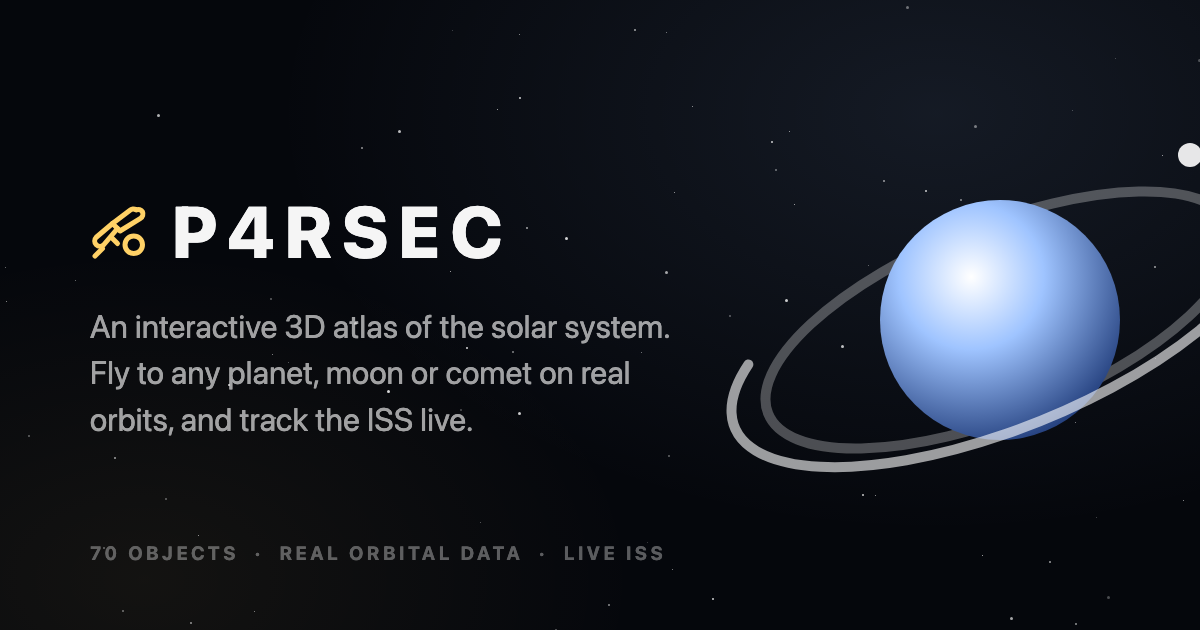
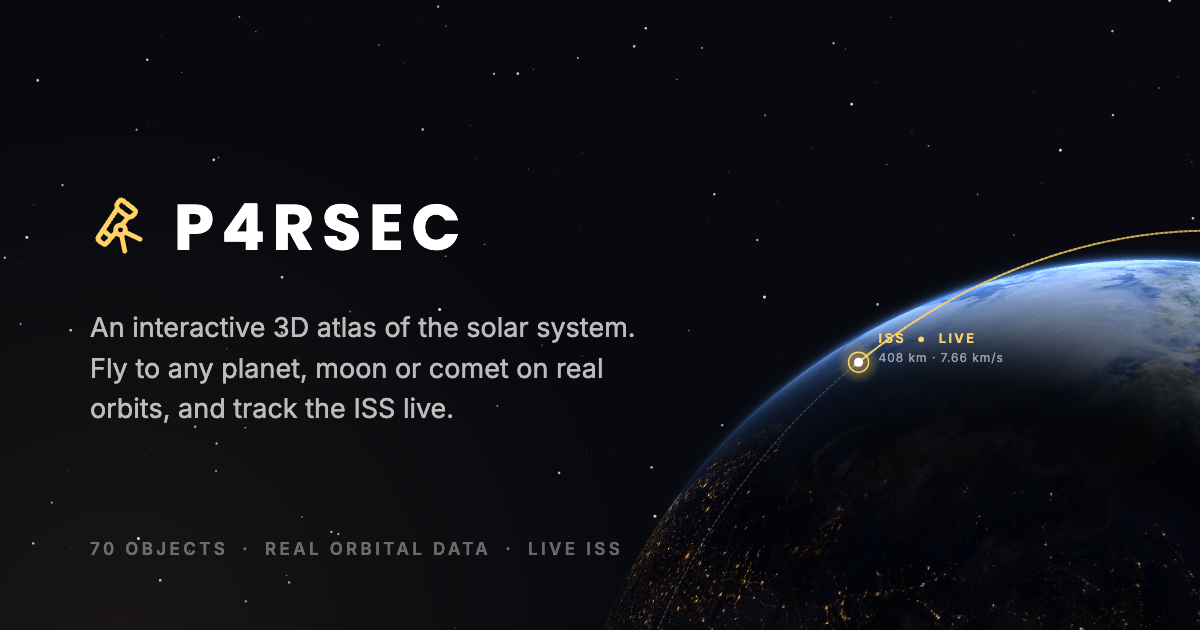
5.14.9 (a new share card)
The link-preview image had a flat gradient planet with a loose orbit ring
that didn't look like the site. Replaced the right half with a rendered
Earth limb (day/night/cloud textures from the scene) and the ISS on an
amber orbit track, which also shows the live-tracking feature.

og:image / twitter:image get a ?v= query so unfurlers that cached the old
card fetch the new one.

diff --git a/frontend/index.html b/frontend/index.html
@@ -37,14 +37,14 @@
     <meta property="og:description" content="Fly to every planet, moon and comet in an interactive 3D solar system. Track the ISS live and browse 70 objects with real orbital data." />
     <!-- Absolute URL: link unfurlers do not resolve relative paths. Kept in sync
          with public/og-image.png (1200×630). -->
-    <meta property="og:image" content="https://p4rsec.com/og-image.png" />
+    <meta property="og:image" content="https://p4rsec.com/og-image.png?v=5.14.9" />
     <meta property="og:image:width" content="1200" />
     <meta property="og:image:height" content="630" />
     <meta property="og:image:alt" content="P4RSEC — an interactive 3D atlas of the solar system" />
     <meta name="twitter:card" content="summary_large_image" />
     <meta name="twitter:title" content="P4RSEC — Explore the Solar System in 3D" />
     <meta name="twitter:description" content="An interactive 3D atlas of the solar system, with live ISS tracking." />
-    <meta name="twitter:image" content="https://p4rsec.com/og-image.png" />
+    <meta name="twitter:image" content="https://p4rsec.com/og-image.png?v=5.14.9" />
     <link rel="canonical" href="https://p4rsec.com/" />
 
     <!-- The first paint, before a byte of the bundle has run.

diff --git a/frontend/src/data/whatsNew.js b/frontend/src/data/whatsNew.js
@@ -14,6 +14,7 @@ export const WHATS_NEW = [
     {
         version: '5.14',
         changes: [
+            'When you share a link to the site, the preview now shows the Earth at night with the ISS passing over it.',
             'On a computer, the Sun no longer flickers in the corner of the view when you look at Earth or another planet.',
             'On a wide screen, the header and the controls over the scene now sit at the edges of the window instead of floating in a box in the middle.',
             'The first-visit tips have a quieter look that matches the rest of the site, without the gold outline.',

diff --git a/CHANGELOG.md b/CHANGELOG.md
@@ -16,6 +16,25 @@ Every release is a commit titled with its version. The version in
 
 ---
 
+## 5.14.9
+
+**A new share card.** The image that shows up when someone posts a p4rsec.com
+link (Slack, iMessage, X, Discord and so on) used to have a flat, gradient-shaded
+blue planet with a loose orbit ring on the right. It is now a real rendered
+Earth rising out of the bottom-right corner: a thin sunlit edge along the top
+limb, a blue atmosphere glow, city lights across the night side, and the ISS
+on an amber orbit track with a fading trail and an `ISS ● LIVE` label. It is
+drawn from the same day, night and cloud textures the scene uses, so the card
+looks like the site. The left half (wordmark, line of copy, footer) is
+unchanged.
+
+Link unfurlers cache images by URL, often for days, so `og:image` and
+`twitter:image` now point at `og-image.png?v=5.14.9`. Without that, places
+that had already fetched the old card would keep showing it. Bump the query
+the next time the file changes.
+
+---
+
 ## 5.14.8
 
 **The Sun stops strobing when another body is focused.** On the desktop tier,
